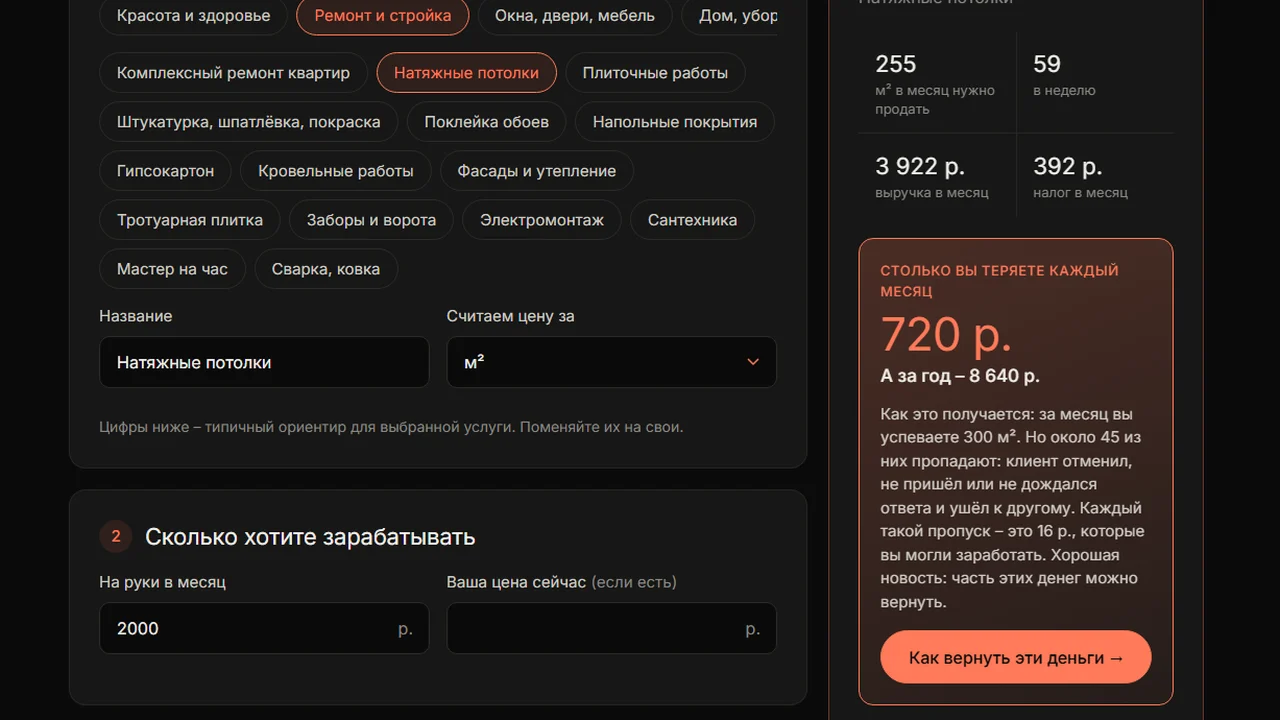
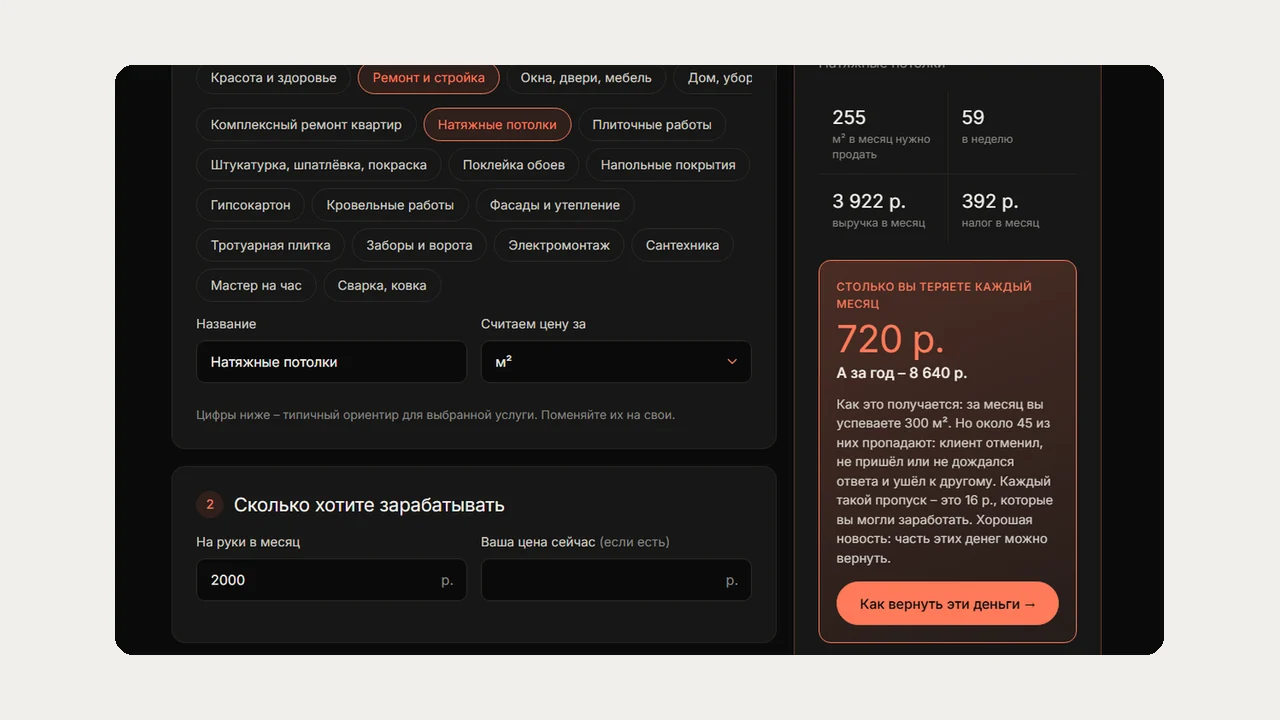
Portfolio: light frame on lead-magnet covers like other cases

diff --git a/assets/js/data.js b/assets/js/data.js
@@ -134,7 +134,7 @@ const PROJECTS = [
     },
     tech: ['JavaScript', 'i18n', 'Telegram-бот', 'Gemini API'],
     link: 'cena/',
-    image: 'assets/img/cases/cena-cover-sm.webp',
+    image: 'assets/img/cases/cena-cover-sm.webp?v=2',
   },
   {
     id: 14,
@@ -147,7 +147,7 @@ const PROJECTS = [
     },
     tech: ['JavaScript', 'i18n', 'Telegram-бот', 'Gemini API'],
     link: 'proverka/',
-    image: 'assets/img/cases/proverka-cover-sm.webp',
+    image: 'assets/img/cases/proverka-cover-sm.webp?v=2',
   },
   {
     id: 9,

diff --git a/index.html b/index.html
@@ -379,7 +379,7 @@
   </footer>
 
   <script src="https://cdn.jsdelivr.net/npm/motion@12.41.0/dist/motion.js" integrity="sha384-3sYvT9pL8/Zz6rHr8YN2C+yqo26yw5O4zArJqoBl9CX0keXa++a9F7hWYezfc6Pp" crossorigin="anonymous"></script>
-  <script src="assets/js/data.js?v=2"></script>
+  <script src="assets/js/data.js?v=3"></script>
   <script src="assets/js/main.js?v=2"></script>
   <script src="assets/js/chat-script.js"></script>
   <script src="assets/js/chat.js"></script>
